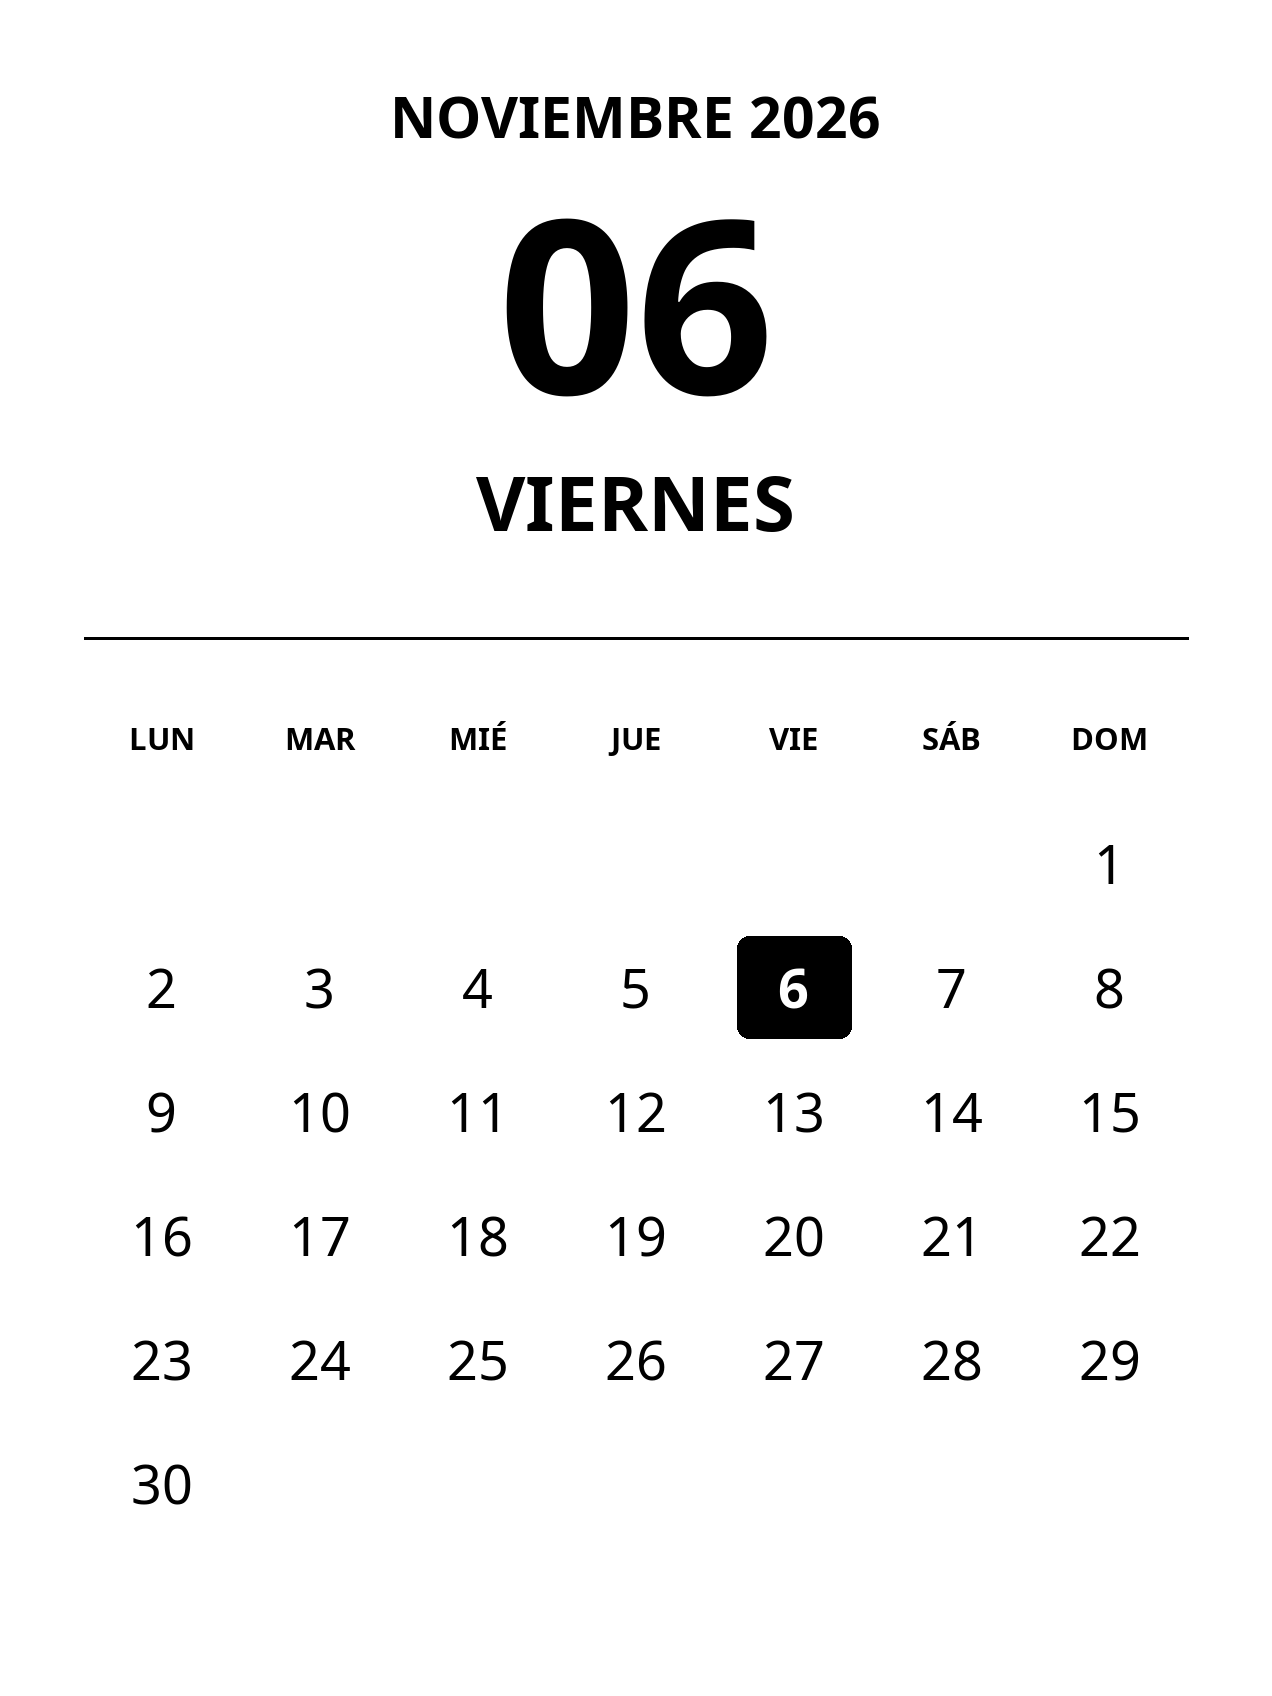
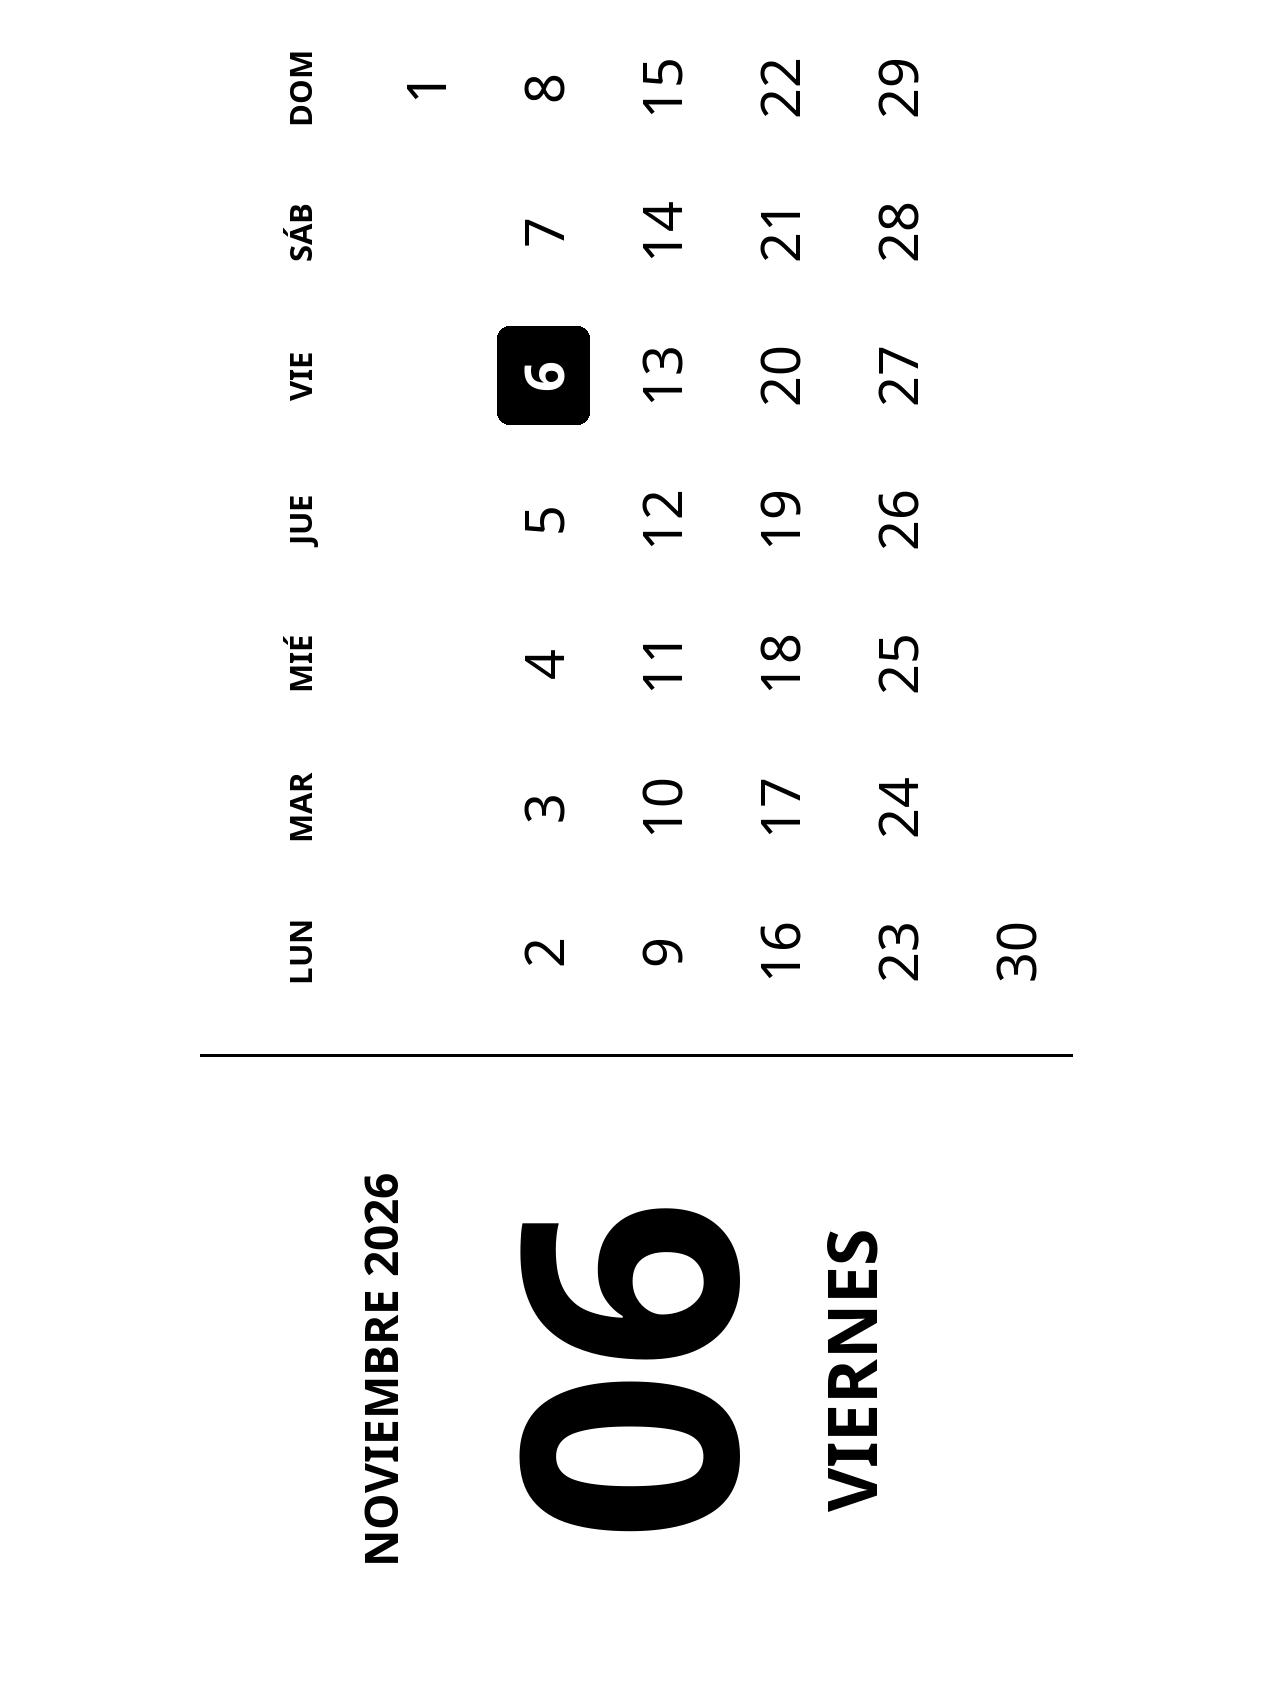
Add landscape calendar with power button on the left

diff --git a/src/kindle_calendar/generator.py b/src/kindle_calendar/generator.py
@@ -11,7 +11,8 @@ from .calendar import MONTHS, WEEKDAYS, ZONE, dates, month_rows
 
 ROOT = Path(__file__).resolve().parents[2]
 FONTS = ROOT / "assets" / "fonts"
-SIZE = (1272, 1696)  # PW6 portrait; verify framebuffer before device enablement.
+SIZE = (1696, 1272)  # PW6 landscape layout; framebuffer orientation needs validation.
+EXPORT_ROTATION = 270  # Native portrait PNG; Kindle's bottom/power button at the left.
 
 
 @lru_cache(maxsize=32)
@@ -23,11 +24,14 @@ def digest(path):
     return hashlib.sha256(Path(path).read_bytes()).hexdigest()
 
 
-def render(day, size=SIZE):
+def render(day, size=SIZE, rotation=0):
     width, height = size
-    if width < 600 or height < 800 or width / height > 0.85:
-        raise ValueError("Se requiere un panel vertical de al menos 600 × 800")
-    sx, sy = width / 1272, height / 1696
+    if min(size) < 600 or max(size) < 800 or not 0.5 <= width / height <= 2:
+        raise ValueError("Se requiere un panel de al menos 600 × 800, vertical u horizontal")
+    if rotation not in (0, 90, 180, 270):
+        raise ValueError("La rotación debe ser 0, 90, 180 o 270 grados horarios")
+    landscape = width > height
+    sx, sy = (width / 1696, height / 1272) if landscape else (width / 1272, height / 1696)
     image = Image.new("L", size, 255)
     draw = ImageDraw.Draw(image)
 
@@ -37,28 +41,43 @@ def render(day, size=SIZE):
     def text(x, y, value, px, bold=False, fill=0):
         draw.text((round(x * sx), round(y * sy)), value, font=font(px, bold), fill=fill, anchor="mm")
 
-    text(636, 116, f"{MONTHS[day.month].upper()} {day.year}", 57, True)
-    text(636, 300, f"{day.day:02d}", 242, True)
-    text(636, 501, WEEKDAYS[day.weekday()].upper(), 76, True)
-    draw.line((84*sx, 638*sy, 1188*sx, 638*sy), fill=0, width=max(1, round(3*sx)))
+    if landscape:
+        text(326, 380, f"{MONTHS[day.month].upper()} {day.year}", 46, True)
+        text(326, 620, f"{day.day:02d}", 300, True)
+        text(326, 850, WEEKDAYS[day.weekday()].upper(), 68, True)
+        draw.line((640*sx, 200*sy, 640*sx, 1072*sy), fill=0, width=max(1, round(3*sx)))
+        first_x, column_step, header_y, first_y, row_step = 744, 144, 300, 425, 118
+        cell_half_width, cell_half_height = 49, 46
+    else:
+        text(636, 116, f"{MONTHS[day.month].upper()} {day.year}", 57, True)
+        text(636, 300, f"{day.day:02d}", 242, True)
+        text(636, 501, WEEKDAYS[day.weekday()].upper(), 76, True)
+        draw.line((84*sx, 638*sy, 1188*sx, 638*sy), fill=0, width=max(1, round(3*sx)))
+        first_x, column_step, header_y, first_y, row_step = 162, 158, 738, 863, 124
+        cell_half_width, cell_half_height = 57, 51
     for col, label in enumerate(("LUN", "MAR", "MIÉ", "JUE", "VIE", "SÁB", "DOM")):
-        text(162 + col*158, 738, label, 31, True)
+        text(first_x + col*column_step, header_y, label, 31, True)
     # Fixed six-row area: no jumps in the grid between months.
     for row, week in enumerate(month_rows(day)):
         for col, number in enumerate(week):
             if not number:
                 continue
-            x, y = 162 + col*158, 863 + row*124
+            x, y = first_x + col*column_step, first_y + row*row_step
             selected = number == day.day
             if selected:
-                draw.rounded_rectangle(((x-57)*sx, (y-51)*sy, (x+57)*sx, (y+51)*sy),
+                draw.rounded_rectangle(((x-cell_half_width)*sx, (y-cell_half_height)*sy,
+                                        (x+cell_half_width)*sx, (y+cell_half_height)*sy),
                                        radius=12*min(sx, sy), fill=0)
             text(x, y, str(number), 54, selected, 255 if selected else 0)
-    return image
+    turns = {90: Image.Transpose.ROTATE_270, 180: Image.Transpose.ROTATE_180,
+             270: Image.Transpose.ROTATE_90}
+    return image.transpose(turns[rotation]) if rotation else image
 
 
-def generate(start, end, output, size=SIZE):
+def generate(start, end, output, size=SIZE, rotation=None):
     output = Path(output)
+    if rotation is None:
+        rotation = EXPORT_ROTATION if size[0] > size[1] else 0
     # Do not leave an old manifest certifying a partially rewritten bundle.
     if output.exists() and any(output.iterdir()):
         raise ValueError("La carpeta de salida debe estar vacía; generar otra versión")
@@ -67,10 +86,13 @@ def generate(start, end, output, size=SIZE):
     for day in dates(start, end):
         name = f"{day.isoformat()}.png"
         temporary = output / (name + ".tmp")
-        render(day, size).save(temporary, format="PNG", optimize=False)
+        rendered = render(day, size, rotation)
+        rendered.save(temporary, format="PNG", optimize=False)
         os.replace(temporary, output / name)
         entries[day.isoformat()] = {"file": name, "sha256": digest(output / name)}
-    manifest = {"schema": 1, "timezone": ZONE, "size": list(size), "mode": "L",
+    manifest = {"schema": 1, "timezone": ZONE, "size": list(rendered.size), "mode": "L",
+                "layout": "landscape" if size[0] > size[1] else "portrait",
+                "layout_size": list(size), "rotation_clockwise": rotation,
                 "start": start.isoformat(), "end": end.isoformat(), "images": entries,
                 "fonts": {p.name: digest(p) for p in sorted(FONTS.glob("*.ttf"))}}
     (output / "manifest.json").write_text(json.dumps(manifest, ensure_ascii=False, indent=2) + "\n")

diff --git a/tests/test_calendar.py b/tests/test_calendar.py
@@ -58,11 +58,32 @@ class CalendarTests(unittest.TestCase):
     def test_selected_cell_is_black_with_white_numeral(self):
         image = render(date(2026, 11, 6))
         self.assertEqual(image.mode, "L")
-        self.assertEqual(image.size, (1272, 1696))
-        self.assertEqual(image.getpixel((745, 945)), 0)
+        self.assertEqual(image.size, (1696, 1272))
+        self.assertEqual(image.getpixel((1285, 513)), 0)
         self.assertEqual(image.getpixel((100, 100)), 255)
         # A six-week month must fit too.
         render(date(2026, 3, 31))
+
+    def test_landscape_export_rotates_without_changing_content(self):
+        from PIL import Image
+        day = date(2028, 2, 29)
+        landscape = render(day)
+        for rotation, inverse in ((90, Image.Transpose.ROTATE_90),
+                                  (270, Image.Transpose.ROTATE_270)):
+            rotated = render(day, rotation=rotation)
+            self.assertEqual(rotated.size, (1272, 1696))
+            self.assertEqual(rotated.transpose(inverse).tobytes(), landscape.tobytes())
+        with tempfile.TemporaryDirectory() as directory:
+            manifest = generate(day, day, directory)
+            self.assertEqual(manifest["size"], [1272, 1696])
+            self.assertEqual(manifest["layout_size"], [1696, 1272])
+            self.assertEqual(manifest["layout"], "landscape")
+            self.assertEqual(manifest["rotation_clockwise"], 270)
+            verify(directory)
+            with Image.open(Path(directory)/(str(day)+".png")) as exported:
+                # Turning the physical Kindle clockwise puts its bottom on the left.
+                self.assertEqual(exported.transpose(Image.Transpose.ROTATE_270).tobytes(),
+                                 landscape.tobytes())
 
     def test_manifest_cannot_select_path_outside_bundle(self):
         import json

diff --git a/src/kindle_calendar/__main__.py b/src/kindle_calendar/__main__.py
@@ -4,7 +4,7 @@ from datetime import date, datetime
 
 from .calendar import wake_plan
 from .deployment import install, uninstall
-from .generator import generate, verify
+from .generator import SIZE, generate, verify
 
 
 def main():
@@ -14,8 +14,10 @@ def main():
     gen.add_argument("--start", type=date.fromisoformat, required=True)
     gen.add_argument("--end", type=date.fromisoformat, required=True)
     gen.add_argument("--out", required=True)
-    gen.add_argument("--width", type=int, default=1272)
-    gen.add_argument("--height", type=int, default=1696)
+    gen.add_argument("--width", type=int, default=SIZE[0])
+    gen.add_argument("--height", type=int, default=SIZE[1])
+    gen.add_argument("--rotation", type=int, choices=(0, 90, 180, 270), default=None,
+                     help="Giro horario; por defecto 270° para diseño horizontal y botón a la izquierda")
     check = sub.add_parser("verify")
     check.add_argument("bundle")
     plan = sub.add_parser("plan")
@@ -28,7 +30,7 @@ def main():
     args = parser.parse_args()
     try:
         if args.command == "generate":
-            result = generate(args.start, args.end, args.out, (args.width, args.height))
+            result = generate(args.start, args.end, args.out, (args.width, args.height), args.rotation)
             print(f"Generadas {len(result['images'])} imágenes en {args.out}")
         elif args.command == "verify":
             print(f"Verificadas {len(verify(args.bundle)['images'])} imágenes")

diff --git a/README.md b/README.md
@@ -1,14 +1,14 @@
 # Kindle Calendar Screensaver
 
 Calendario mensual offline, en español, para Paperwhite 12 (PW6, 2024).
-Prototipo **0.1.1 para computadora**; integración con el Kindle pendiente de
+Prototipo **0.2.0 para computadora**; integración con el Kindle pendiente de
 validación física. No es todavía una instalación funcional de screensaver.
 
 Véra declara soporte para PW6 con **5.20.1.0.2**. No se ha confirmado en este
 proyecto que el conjunto pantalla + suspensión + RTC funcione en ese firmware.
 Ver [investigación y fuentes](docs/feasibility.md).
 
-![Calendario del 6 de noviembre de 2026](preview/current/2026-11-06.png)
+![Calendario apaisado con botón del Kindle a la izquierda](preview/landscape.png)
 
 ## Ejecutar en una computadora
 
@@ -26,9 +26,17 @@ export PYTHONPATH="$PWD/src"
 .venv/bin/python -m unittest discover -s tests -v
 ```
 
-Cada PNG mide 1272 × 1696, usa grises de 8 bits y tiene fecha ISO como nombre.
+El diseño predeterminado es apaisado: fecha grande a la izquierda y calendario a
+la derecha, con el botón de encendido del Kindle a la izquierda. El lienzo mide
+1696 × 1272; se exporta una sola orientación, girada 270° en sentido horario, como
+PNG nativo de 1272 × 1696. Usa grises de 8 bits y fecha ISO como nombre.
 La carpeta de salida debe estar vacía. Se puede cambiar el tamaño con `--width`
-y `--height`. Las fuentes Noto Sans están incluidas con su licencia OFL.
+y `--height`. El giro se realiza una sola vez en la computadora; no se necesita
+elegir entre variantes al instalar. `--rotation` permite sobrescribirlo para
+diagnóstico, pero el uso previsto es el predeterminado con botón a la izquierda.
+El renderizador real aún debe comprobarse para evitar un segundo giro automático.
+El manifiesto distingue tamaño de diseño, tamaño exportado y giro horario.
+Las fuentes Noto Sans están incluidas con su licencia OFL.
 La reproducibilidad de bytes se comprueba con el mismo Python/Pillow y fuentes;
 no se promete identidad entre diferentes versiones de FreeType o zlib.
 

diff --git a/docs/feasibility.md b/docs/feasibility.md
@@ -46,6 +46,10 @@ es la referencia preferida para conservar el lector Amazon. Su
 declara `kindlehf`, firmware desde 5.16.3 y pruebas PW6 en 5.18.6, 5.19.5 y 5.19.6;
 no incluye PW6/5.20.1.0.2. El soporte de Colorsoft/5.20.1 no confirma nuestro caso.
 Requiere un daemon y auxiliares de pantalla; no arranca automáticamente tras reboot.
+Además, upstream declara que `ad_screensaver` no fue verificado en un Kindle físico
+con Special Offers. Los equipos con anuncios requieren una prueba específica; no
+asumir que modo avión desactiva ese renderizador. Su salida se normaliza a vertical:
+para nuestro diseño horizontal hay que validar el giro de la imagen y el backend.
 
 Su [daemon](https://github.com/chengandre/kindle-custom-screensaver/blob/c73cf75c47c0cc55a31464ce597f0b83a793ee52/src/scripts/custom_ss_daemon.sh)
 escucha eventos de reposo/desbloqueo, deshabilita renderizadores Amazon mediante
@@ -95,6 +99,8 @@ para instalarlo en esta fase.
 | --- | --- |
 | Firmware o jailbreak incompatible | Confirmar modelo y versión; no downgrade ni firmware automático |
 | Amazon sobrescribe el calendario | Un solo propietario de pantalla; probar eventos, shield y PIN |
+| Equipo con anuncios | `ad_screensaver` no verificado por upstream; probar restitución de anuncios y reposo |
+| Normalización a vertical | Validar una imagen girada 270°, botón a izquierda y grilla a derecha |
 | RTC no despierta o alarma es reemplazada | Ensayo breve supervisado, luego medianoche offline sin USB |
 | CPU queda despierta | Tareas con timeout; medir suspensión y batería frente a un control |
 | Fallo del daemon deja renderizadores apagados | Watchdog por supervisor, restauración probada antes de autostart |

diff --git a/docs/architecture.md b/docs/architecture.md
@@ -30,6 +30,10 @@ no capacidades implícitas del diagrama. El simulador sólo modela decisiones.
   medianoche en `America/Argentina/Buenos_Aires`. Rechaza datetimes sin zona.
 * `generator.py`: PNG `L` de 8 bits, fuentes locales con licencia, manifiesto con
   cobertura inclusiva, tamaño y checksums. Rechaza sobrescribir un bundle existente.
+  El diseño por defecto es horizontal, 1696×1272: mes/año, fecha y día de semana a
+  la izquierda; grilla de lunes a domingo a la derecha. La exportación predeterminada
+  gira 270° horarios para el panel nativo vertical: botón del Kindle a la izquierda,
+  sin rotar el lector Amazon. `render` conserva el lienzo legible para vista previa.
 * `calendar-worker.sh`: proceso POSIX de una ejecución; elige la fecha real del
   reloj en cada llamada. Valida checksum, consulta estado, reintenta tres veces y
   registra la fecha sólo después de un render exitoso. No tiene red ni setters.
@@ -79,6 +83,11 @@ No ejecutar el worker como scriptlet visible en pantalla: puede dibujar stdout.
 El orden entre el evento de reposo y el dibujo upstream requiere un hook
 sincronizado; dos listeners independientes no garantizan ese orden. No se ofrece
 una receta de copiar archivos y arrancar ambos daemons como si ya fuera correcta.
+
+La posición elegida es apoyar el borde largo con el botón a la izquierda. Exportar
+una sola orientación y validar una imagen estática en esa posición. No asumir que
+Custom Screensaver conservará una imagen girada: su normalización de orientación
+puede requerir adaptar el backend. La vista previa apaisada no demuestra ese paso.
 
 ## Tiempo, almacenamiento y fallos
 

diff --git a/docs/hardware-validation.md b/docs/hardware-validation.md
@@ -12,13 +12,15 @@ anuncios/PIN, reloj, zona, batería y resultado en cada ensayo. No usar serial c
 * Comportamiento stock registrado y restauración de renderizadores ya comprobada.
 * Batería suficiente y prueba supervisada para las primeras modificaciones.
 * Mantener salida/errores por eventos; un logger de polling puede falsear el consumo.
+* En modelos con anuncios, registrar `ad_screensaver`, comprobar que no sobrescribe
+  la imagen y que se restaura al detener. Upstream no confirma ese caso en hardware.
 
 ## Secuencia y aceptación
 
 | ID | Ensayo | Evidencia para aprobar |
 | --- | --- | --- |
 | H01 | Sonda de lectura y observación de eventos | ABI, panel, propiedades/eventos y utilidades reales registrados |
-| H02 | Pantalla estática con upstream, sin calendario/RTC | Imagen completa sin recorte; lector/PIN intactos; reversión stock |
+| H02 | Una imagen estática apaisada, sin calendario/RTC | Fecha a izquierda y grilla a derecha; PNG girado 270° sin giro extra; apoyo sobre borde largo con botón a izquierda; lector/PIN intactos y reversión stock |
 | H03 | Suspensión stock real sin USB | Logs/contadores muestran entrada y salida; imagen estática no es prueba |
 | H04 | Alarma breve supervisada desde suspensión | Se despierta sin botón, USB ni red; registrar delta solicitado y latencia |
 | H05 | Retorno tras tarea | powerd vuelve a suspender; ningún proceso fuerza Active permanentemente |

diff --git a/docs/test-report.md b/docs/test-report.md
@@ -7,7 +7,7 @@ Python 3.9.6 y Pillow 11.3.0 dentro de `.venv`.
 
 `PYTHONPATH=src .venv/bin/python -m unittest discover -s tests -v`
 
-**21 pruebas aprobadas.** Incluyen:
+**22 pruebas aprobadas en la revisión 0.2.0.** Incluyen:
 
 * Los 4800 meses de un ciclo gregoriano completo de 400 años: días completos,
   orden y alineación de lunes a domingo; excepciones de bisiestos seculares.
@@ -39,6 +39,12 @@ Revisión visual del PNG de 1272×1696 del 6 de noviembre de 2026: textos comple
 grilla alineada lunes-domingo, fecha grande y día 6 resaltado sin recortes.
 La revisión 0.1.1 elimina la fecha redundante y centra el día de la semana en
 76 px y negrita sobre el espacio de los dos renglones anteriores.
+La revisión 0.2.0 cambia el diseño predeterminado a 1696×1272: fecha a la izquierda
+y grilla a la derecha. Se comprueban los giros 90°/270° mediante inversión exacta
+de píxeles y la verificación del manifiesto de una exportación girada.
+La exportación predeterminada queda fijada en 270° horarios y tamaño nativo
+1272×1696. Se comprueba que girar físicamente el dispositivo con su parte inferior
+hacia la izquierda recupera exactamente el diseño horizontal legible.
 
 ## Pendiente o no ejecutado
 
